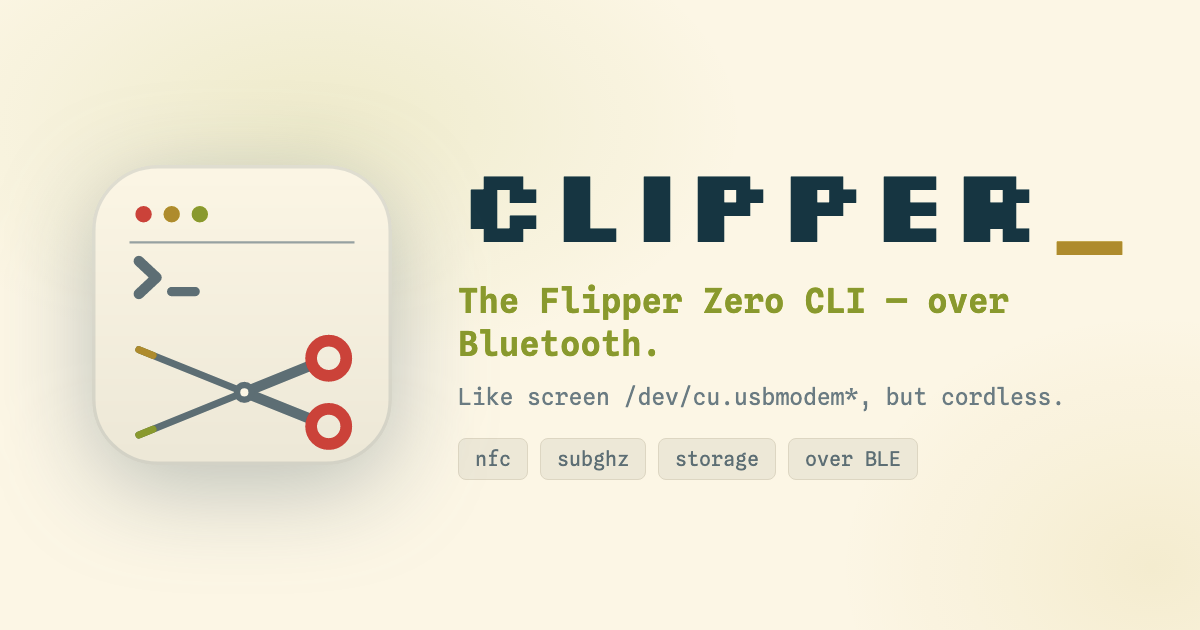
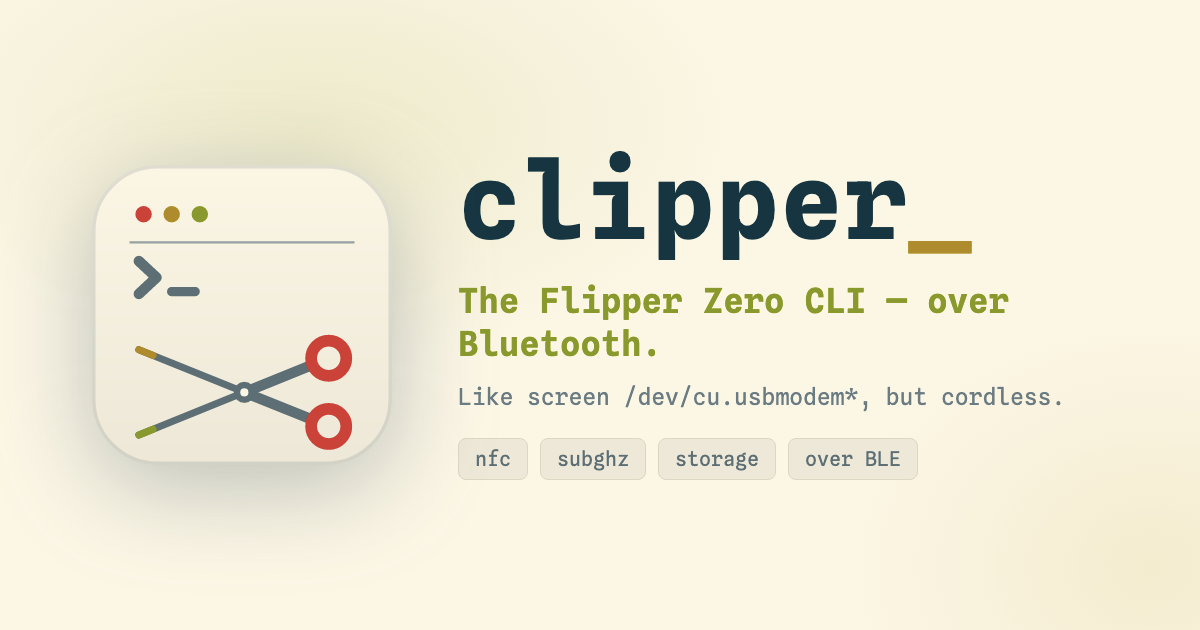
Drop the pixel font and blinking cursor, simplify install instructions

Changed region(s): [[0.37, 0.2413, 0.9558, 0.4222]]

diff --git a/docs/index.html b/docs/index.html
@@ -62,7 +62,7 @@
 </script>
 <link rel="preconnect" href="https://fonts.googleapis.com">
 <link rel="preconnect" href="https://fonts.gstatic.com" crossorigin>
-<link href="https://fonts.googleapis.com/css2?family=Silkscreen:wght@400;700&family=Spline+Sans+Mono:wght@400;500;600;700&display=swap" rel="stylesheet">
+<link href="https://fonts.googleapis.com/css2?family=Spline+Sans+Mono:wght@400;500;600;700&display=swap" rel="stylesheet">
 <style>
   :root{
     /* Solarized Light — matches the logo's cream palette */
@@ -81,7 +81,7 @@
     --red:#dc322f;      /* solarized red */
     --cyan:#2aa198;
     --mono:'Spline Sans Mono',ui-monospace,Menlo,monospace;
-    --pixel:'Silkscreen',var(--mono);
+    --pixel:var(--mono);  /* was a pixel font; now just the clean mono */
   }
   *{box-sizing:border-box}
   html{scroll-behavior:smooth}
@@ -131,8 +131,7 @@
   h1.word{font-family:var(--pixel);font-weight:700;margin:0;
     font-size:clamp(46px,11vw,96px);line-height:.92;letter-spacing:1px;
     color:var(--bright)}
-  h1.word .blink{color:var(--amber);animation:blink 1.1s steps(1) infinite}
-  @keyframes blink{50%{opacity:0}}
+  h1.word .blink{color:var(--amber)}
   .tag{font-size:clamp(17px,2.6vw,22px);color:var(--green-soft);margin:20px auto 0;max-width:24ch;font-weight:500}
   .sub{color:var(--muted);max-width:60ch;margin:16px auto 0;font-size:15px}
   .sub code{color:var(--ink);background:var(--panel);border:1px solid var(--line);
@@ -162,7 +161,7 @@
   .term .o{color:var(--muted)}        /* output */
   .term .cmd{color:var(--ink)}
   .term .cur{display:inline-block;width:9px;height:17px;background:var(--green);
-    transform:translateY(3px);animation:blink 1.1s steps(1) infinite}
+    transform:translateY(3px)}
 
   /* reveal */
   /* Progressive enhancement: content is visible by default. Only when JS runs
@@ -172,7 +171,6 @@
   html.js .reveal{animation:rise .7s cubic-bezier(.2,.7,.2,1) backwards}
   @media (prefers-reduced-motion: reduce){
     html.js .reveal{animation:none}
-    .blink,.cur{animation:none}
   }
 
   /* ---- section scaffolding ---- */

diff --git a/docs/og-card.html b/docs/og-card.html
@@ -1,5 +1,5 @@
 <!DOCTYPE html><html><head><meta charset="utf-8">
-<link href="https://fonts.googleapis.com/css2?family=Silkscreen:wght@400;700&family=Spline+Sans+Mono:wght@400;500;600&display=swap" rel="stylesheet">
+<link href="https://fonts.googleapis.com/css2?family=Spline+Sans+Mono:wght@400;500;600;700&display=swap" rel="stylesheet">
 <style>
   *{margin:0;box-sizing:border-box}
   html,body{width:1200px;height:630px;overflow:hidden}
@@ -12,7 +12,7 @@
   .logo{flex:0 0 auto;width:300px;height:300px;border-radius:66px;
     filter:drop-shadow(0 22px 48px rgba(88,110,117,.4))}
   .txt{flex:1}
-  .word{font-family:'Silkscreen';font-weight:700;font-size:104px;letter-spacing:2px;color:#073642;line-height:1}
+  .word{font-family:'Spline Sans Mono';font-weight:700;font-size:104px;letter-spacing:2px;color:#073642;line-height:1}
   .word .u{color:#b58900}
   .tag{font-size:34px;color:#859900;margin-top:26px;font-weight:600;line-height:1.25}
   .sub{font-size:23px;color:#657b83;margin-top:18px}
